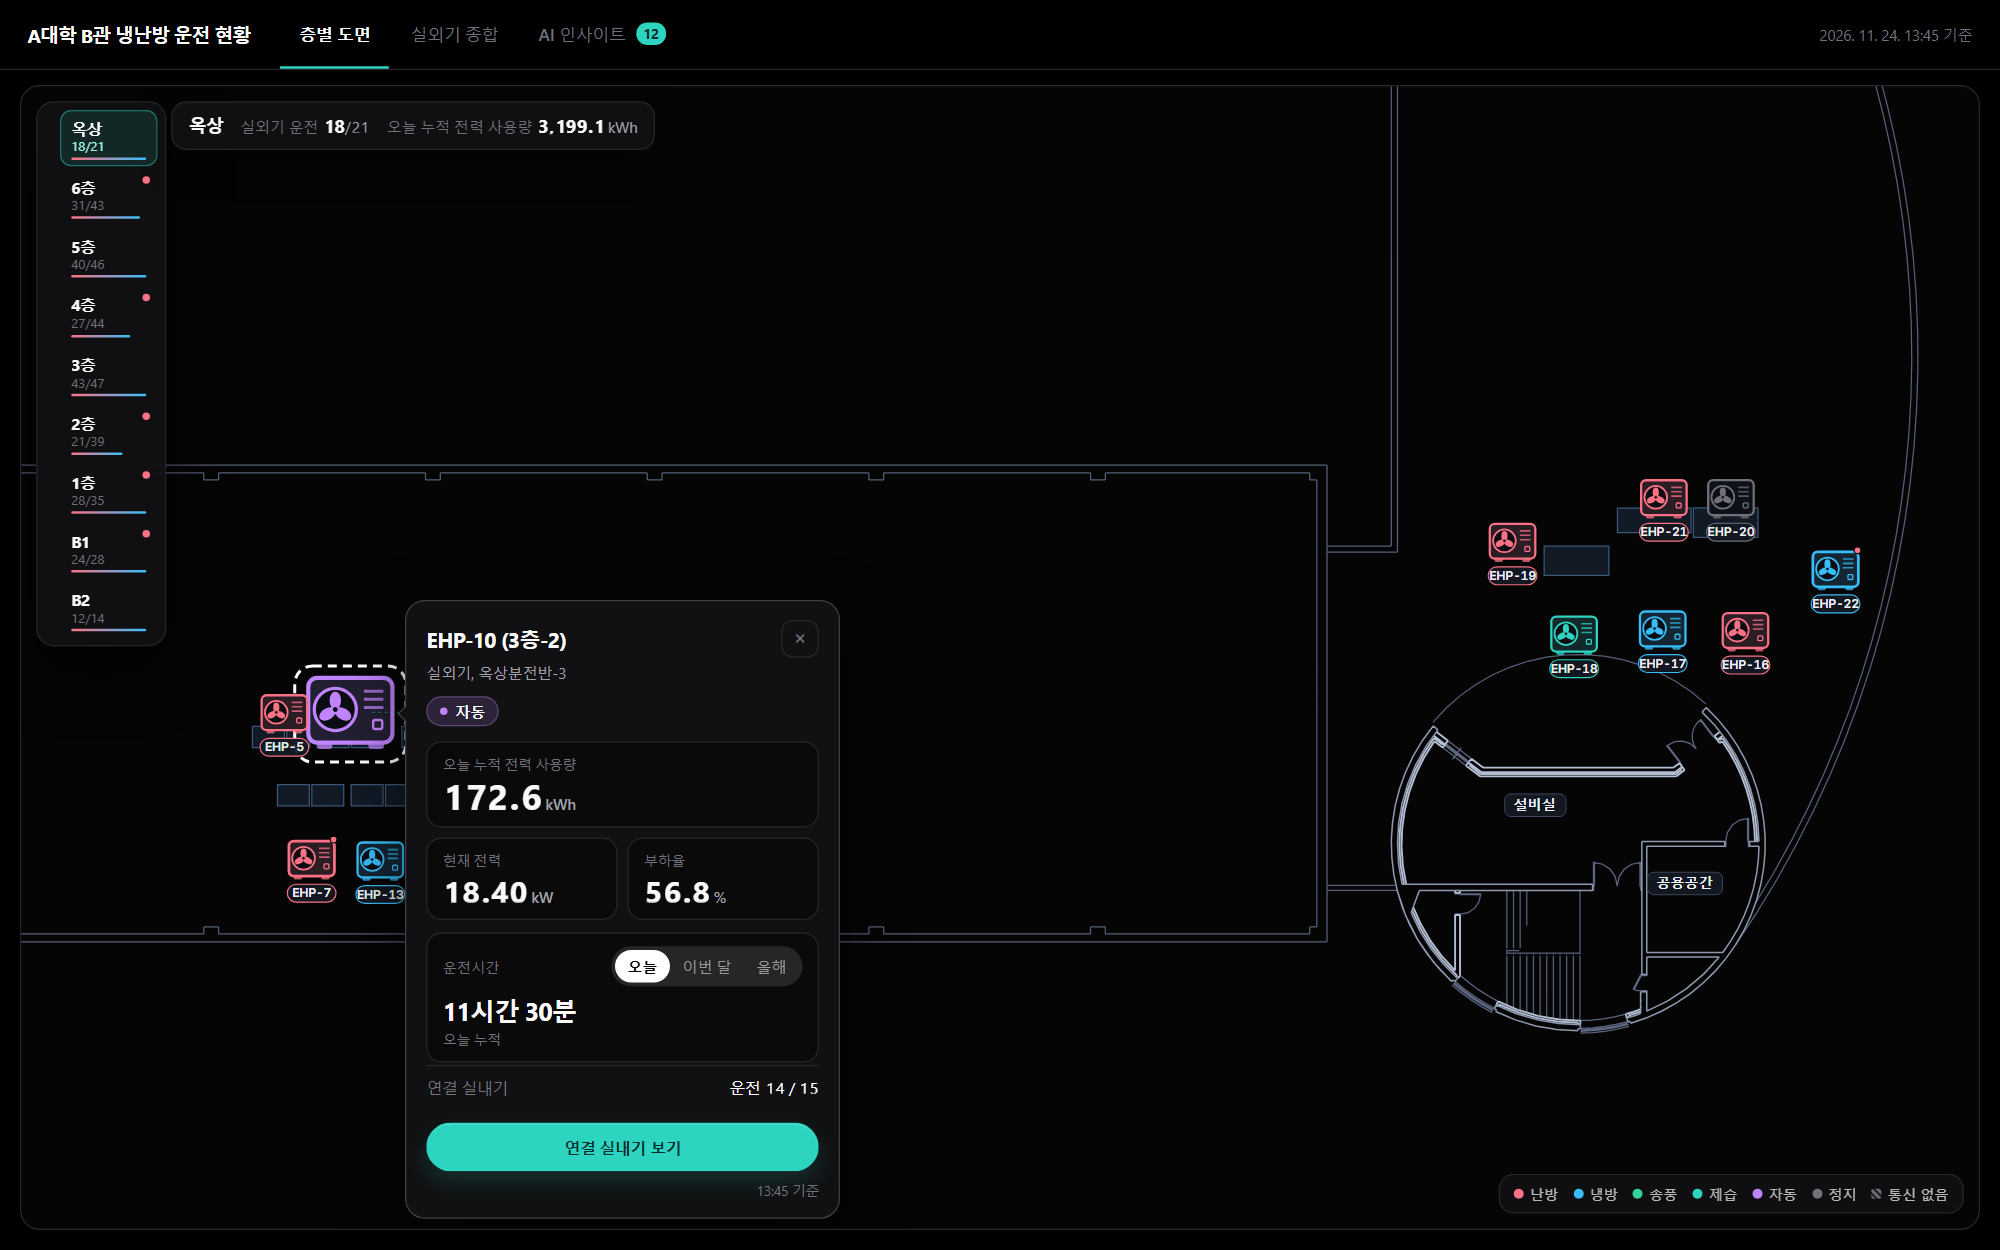
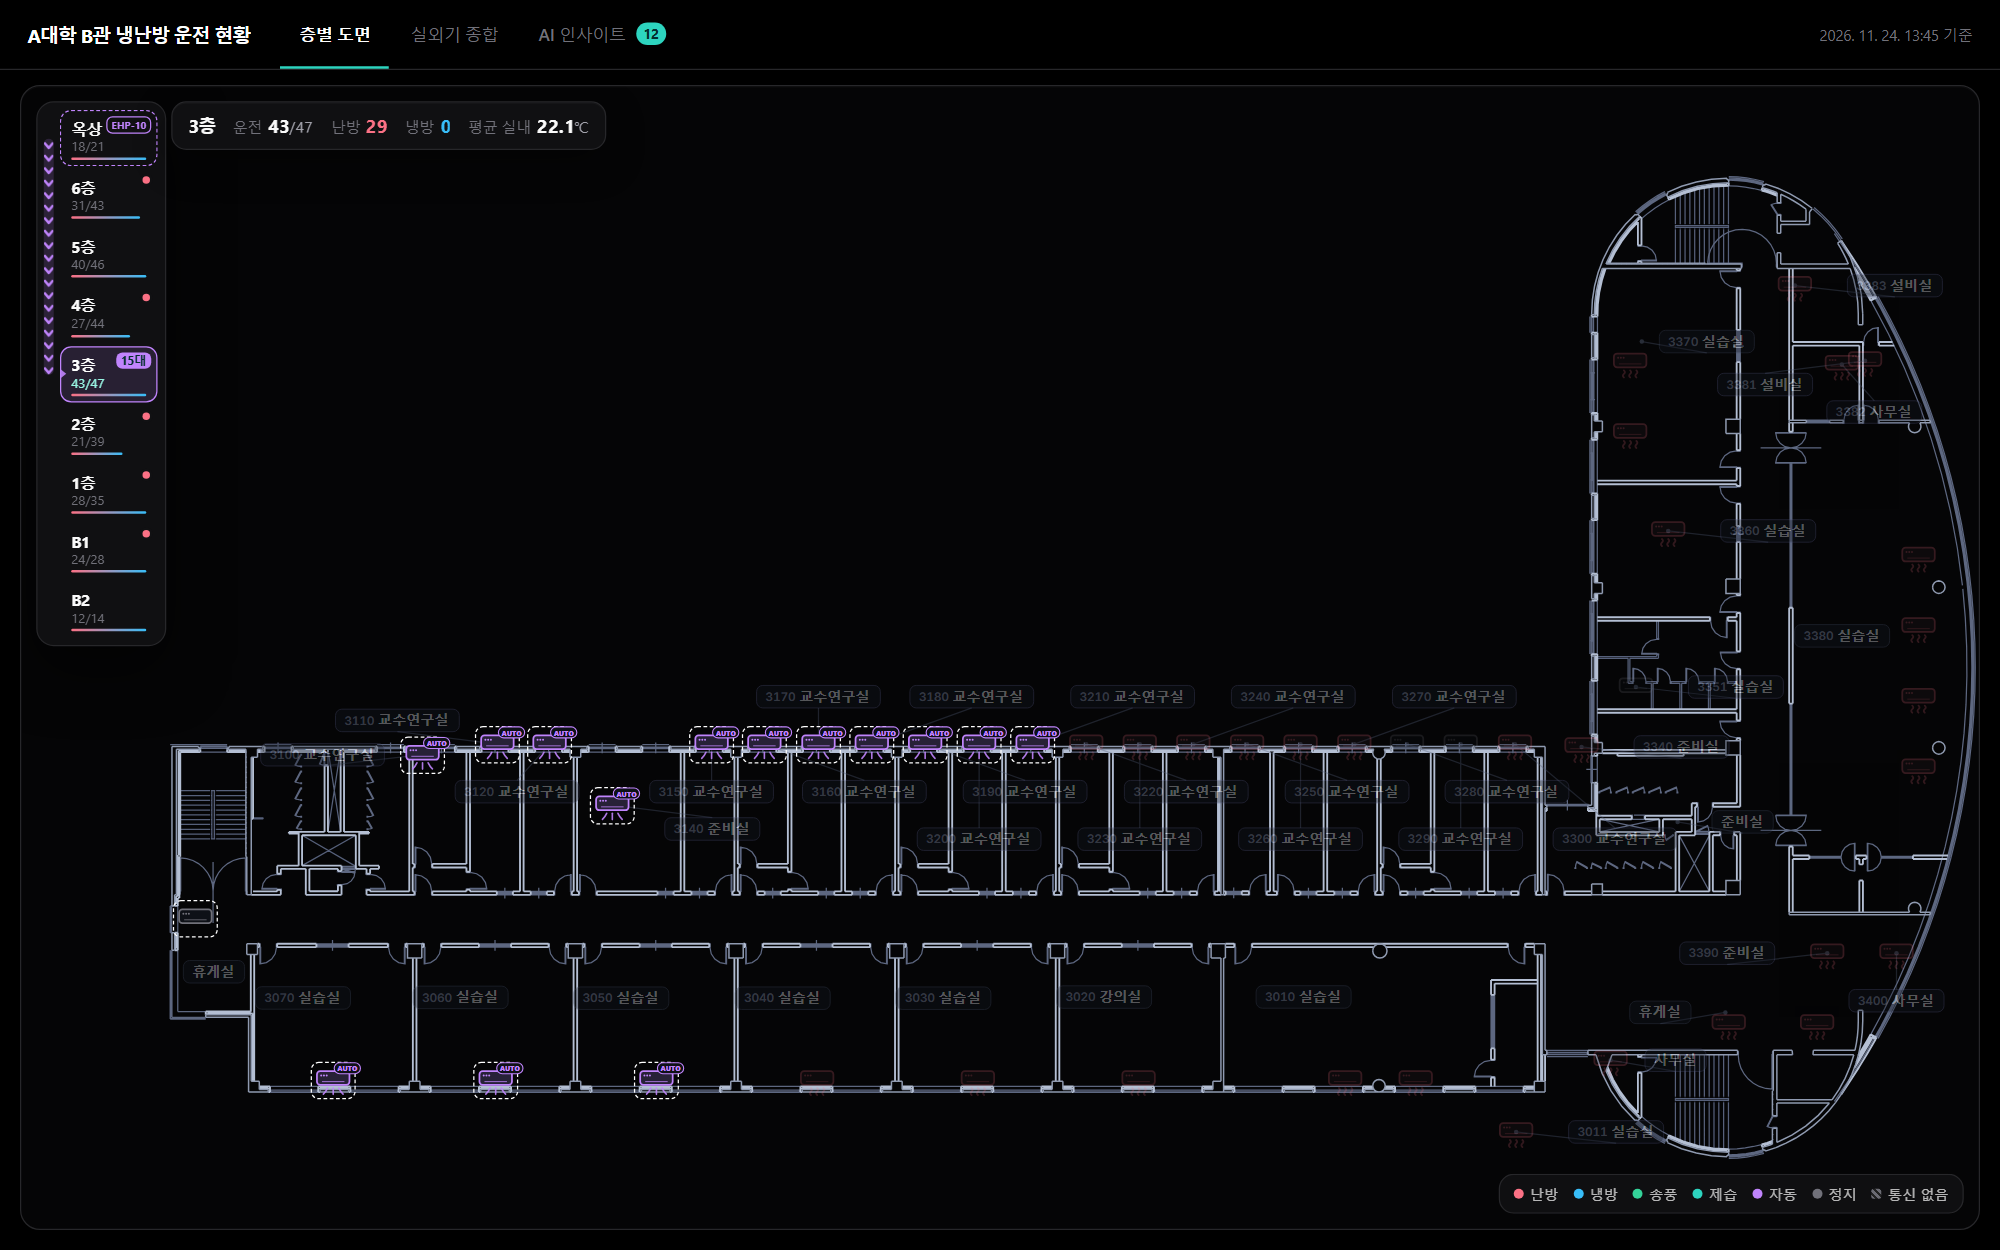
Rewrite README for portfolio readers and fix duplicate floor shots.
Keep the intro short for hiring managers, drop engineering/changelog sections, and replace the highlight screenshot so it differs from the roof view.

diff --git a/README.md b/README.md
@@ -1,153 +1,43 @@
 # Campus EHP Floor Monitor
 
-대학 강의동의 EHP(시스템 냉난방) 실내기와 실외기를 층별 도면 위에 보여 주는 모니터링 화면 샘플입니다. EMS 화면 안에 넣어 쓰는 것을 전제로, 빌드 도구 없이 HTML, SVG, CSS, JavaScript로 만들었습니다.
+대학 건물 냉난방(EHP) 운전 현황을 도면 위에서 보는 모니터링 화면입니다.  
+층별 도면, 실외기 종합, 이상 운전 알람(AI 인사이트)까지 한 흐름으로 구성했습니다.
 
-모든 값은 시연용 가짜 데이터(`data/mock-scenarios.js`)입니다. 건물명은 A대학 B관으로, 호실명은 강의실, 실습실 같은 용도 이름으로 바꿨고, 도면은 좌우를 뒤집어 실제 건물과 다르게 보이게 했습니다.
+시연용 데이터 기준이며, 건물명은 A대학 B관으로 표기했습니다.
 
-라이브 데모: https://bob-joosayo.github.io/campus-ehp-floor-monitor/
+**데모:** [https://bob-joosayo.github.io/campus-ehp-floor-monitor/](https://bob-joosayo.github.io/campus-ehp-floor-monitor/)
 
 - [층별 도면](https://bob-joosayo.github.io/campus-ehp-floor-monitor/floor.html?floor=3F)
 - [옥상 실외기](https://bob-joosayo.github.io/campus-ehp-floor-monitor/floor.html?floor=RF)
 - [실외기 종합](https://bob-joosayo.github.io/campus-ehp-floor-monitor/outdoor.html)
 - [AI 인사이트](https://bob-joosayo.github.io/campus-ehp-floor-monitor/insight.html)
-- [아이콘 상태 견본](https://bob-joosayo.github.io/campus-ehp-floor-monitor/states.html)
 
 ![층별 도면](docs/v14-floor-3f.png)
 
-## 규모
+지하 2층부터 6층, 옥상까지 9개 층. 실내기 296대, 실외기 26대 규모입니다.
 
-| 항목 | 수량 |
-|---|---|
-| 층 | 지하 2층부터 6층, 옥상까지 9개 |
-| 실내기 | 296대 (호실 196개) |
-| 실외기 | 26대 (옥상 21대, 1층 5대) |
-| 분전반 | 6개 |
-| 포인트 | 1,778개 (실내기 5개씩, 실외기 7개씩과 지표 4개씩, 분전반) |
+## 화면 구성
 
-## 화면
+아이콘을 누르면 온도, 전력, 운전시간이 카드로 붙습니다.  
+실외기에서 연결 실내기를 고르면 해당 기기만 남기고 나머지를 흐리게 보여 줍니다.
 
-| 파일 | 내용 |
-|---|---|
-| `floor.html` | 층별 도면. 실내기, 실외기 아이콘이 운전 상태와 모드에 따라 움직이고, 누르면 정보 카드가 붙는다 |
-| `outdoor.html` | 실외기 종합. KPI, 분전반별 카드, 오늘 누적/실시간/부하 랭킹, 운전시간 상위 10 |
-| `insight.html` | AI 인사이트. 일자별 알람 이력, 기기 카드, 상세 드로어(운전 패턴, 시간대별 이력) |
-| `states.html` | 실내기, 실외기 아이콘의 상태별 견본 |
-
-| 실내기를 눌렀을 때 | 연결 실외기의 실내기 강조 |
+| 실내기 선택 | 연결 실내기만 강조 |
 |---|---|
 | ![정보 카드](docs/v14-floor-card.png) | ![강조](docs/v14-floor-highlight.png) |
 
-| 옥상 실외기 | 실외기 종합 |
+| 옥상 실외기 배치 | 실외기 종합 |
 |---|---|
 | ![옥상](docs/v14-floor-roof.png) | ![실외기 종합](docs/v14-outdoor.png) |
 
-| 실외기 랭킹 (누적/실시간/부하/운전시간) | AI 인사이트 목록 |
+실외기 화면에서는 오늘 누적 전력, 실시간 전력, 부하율, 운전시간 상위 목록을 같이 볼 수 있습니다.
+
+![랭킹](docs/v14-outdoor-rank.png)
+
+AI 인사이트에서는 심야 연속 운전, 설정온도 이상, 통신 끊김 같은 알람을 모아 두고,  
+해당 기기를 도면에서 바로 찾아갈 수 있게 했습니다.
+
+| 알람 목록 | 상세 |
 |---|---|
-| ![랭킹](docs/v14-outdoor-rank.png) | ![인사이트](docs/v14-insight.png) |
+| ![인사이트](docs/v14-insight.png) | ![상세](docs/v14-insight-detail.png) |
 
-| AI 인사이트 상세 드로어 |
-|---|
-| ![인사이트 상세](docs/v14-insight-detail.png) |
-
-### 층별 도면
-
-- 확대 없이 읽히도록 도면을 화면에 꽉 채우고, 층 선택과 요약, 범례는 도면 위에 작게 띄웠습니다.
-- 호실명은 꼬리표로 그리고, 좁은 방이 줄지어 있으면 겹치지 않게 비켜 놓은 뒤 가는 선으로 잇습니다.
-- 아이콘을 누르면 정보 카드가 붙고, 도면 밖을 누르면 닫힙니다.
-- 실외기 카드의 연결 실내기 보기를 누르면 소속 실내기만 남기고 나머지를 흐리게 하며, 다른 층에 있으면 층 버튼에 화살표가 흐릅니다.
-- 카드의 「목록에서 보기」는 인사이트 화면으로 넘기며, 해당 기기가 목록 맨 앞에 오고 상세가 열립니다.
-
-### 실외기 종합
-
-- KPI: 운전 중인 실외기/실내기 수, 오늘 누적 전력 사용량(천 단위 콤마).
-- 호기 카드: 오늘 누적 kWh, 운전 모드, 부하율 막대, 연결 실내기 운전 수, 오늘 운전시간.
-- 랭킹: 오늘 누적 전력, 실시간 전력, 부하율 상위 10. 숫자는 자리수 드럼으로 바뀝니다.
-- 운전시간 상위 10: 오늘 / 이번 달 / 올해 전환(Tab Pill). 문자열은 한 줄 롤로 바뀝니다.
-
-### AI 인사이트
-
-- 일자 이동, 유형/층 필터, 방학, 심야 설정.
-- 알람 유형: 심야 연속 운전, 방학, 휴일형 운전, 계절과 모드 불일치, 설정온도 이상, 실내와 설정 온도 차이, 전력 패턴 이상, 통신 끊김 장기화.
-- 상세: 15분 칸 운전 패턴, 시간대별 알람 레인(합산은 15분 단위), 「도면에서 보기」로 해당 설비 포커스.
-
-## 최근 반영 (v1.4 최종)
-
-- 숫자 자리수 드럼과 천 단위 콤마 (`3,261.5`)
-- Tab Pill, 운전시간 문구 롤
-- 표기: 「오늘 누적 전력 사용량」, 「실시간 전력 상위 10」
-- 실내와 설정 온도 차이: 절대값
-- 알람 합산/시연 슬롯: 15분 단위 (1분 표기 없음)
-- 도면과 인사이트 딥링크 (`?iu=` / `?od=`)
-- 연결 실외기, 도면에서 보기 등 칩 버튼 UI
-
-## 데이터
-
-EMS는 설비일괄등록으로 포인트를 시스템에 등록하고, 10자리 포인트ID(설비코드 4 + 포인트코드 4 + 호기 2)로 화면 항목에 값을 연결합니다. 이 화면도 같은 방식입니다. 화면에서 외부 API를 직접 호출해 포인트를 가져오는 구조가 아닙니다.
-
-- `data/point-map.js`: 설비, 포인트 정의 (공개용으로 호실명 치환)
-- `data/floors.js`: 층별 SVG와 좌표 (좌우 반전)
-- `data/mock-scenarios.js`: 15분 슬롯 시연 스냅샷, 운전분, 알람 이력
-
-전력 표기:
-
-| 구분 | 단위 | 화면 |
-|---|---|---|
-| 오늘 누적 전력 사용량 | kWh | KPI, 카드, 누적 랭킹 |
-| 실시간 전력 | kW | 도면 실외기 상세, 실시간 전력 상위 10 |
-| 부하율 | % | 실외기 카드 막대, 부하율 랭킹 |
-
-## 상태 판정
-
-| 대상 | 기준 |
-|---|---|
-| 실내기 | 운전(ON/OFF)과 운전모드(냉방, 난방, 송풍, 제습, 자동). 풍량에 따라 바람 애니메이션 속도가 바뀐다 |
-| 실외기 | 전력(순시) > 0이면 운전 |
-| 부하율 | 운전 중인데 0%가 나오면 `-`로 보여 준다 |
-| 통신 없음 | 값이 없거나 30분보다 오래되면 빗금으로 표시하고 마지막 값을 숨긴다 |
-
-## 실행
-
-빌드가 필요 없습니다. `floor.html`을 브라우저로 바로 열면 됩니다.
-
-```bash
-python -m http.server 8000
-# http://localhost:8000/floor.html
-```
-
-- `floor.html?floor=3F`: 층 지정 (`RF`는 옥상)
-- `floor.html?od=11`: 그 실외기에 묶인 실내기를 강조하며 열기
-- `floor.html?iu=05`: 해당 실내기 선택
-- `insight.html?od=27` / `insight.html?iu=05`: 인사이트에서 해당 기기 맨 앞 + 상세 열기
-
-## 구조
-
-```
-assets/
-  ehp-viz.js         공통 엔진: 값 조회, 상태 판정, 아이콘, 상단 탭
-  ehp-viz.css        다크 테마, 드럼, 칩, 패턴 차트
-  ehp-motion.js      Tab Pill, 숫자 드럼, 문구 롤
-  floor.js           층별 도면
-  outdoor.js         실외기 종합
-  insight.js         AI 인사이트 화면
-  insight-engine.js  알람 판정과 설정
-data/
-  point-map.js       설비, 포인트 정의 (익명화)
-  floors.js          층별 도면 SVG (좌우 반전)
-  mock-scenarios.js  시연용 데이터
-```
-
-## 실데이터 연동
-
-화면은 `{ 포인트ID: { v: 값, ts: epoch ms, day?: 당일합 } }` 형태의 최신값만 알면 됩니다. 공급 함수를 넣으면 시연 데이터는 자동으로 꺼집니다.
-
-```js
-EhpViz.setProvider(async () => fetchLatest(EhpViz.allPointIds()));
-EhpViz.config.refreshMs = 60 * 1000;
-```
-
-## 애니메이션
-
-- 실내기: 운전 중이면 모드별 바람. 난방은 빨간 물결, 냉방은 파란 화살표와 눈꽃 등.
-- 실외기: 팬이 돌고, 전력이 클수록 빠르다.
-- 숫자: 자리수 드럼. 운전시간 문구는 세로 롤.
-- `prefers-reduced-motion`이면 움직임을 끈다.
+HTML, SVG, CSS, JavaScript만으로 만들었고 별도 빌드는 없습니다.
